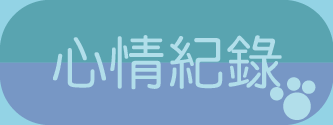
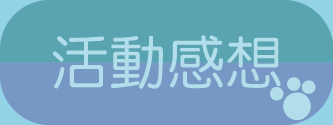
no message

Changed region(s): [[0.1502, 0.288, 0.8408, 0.72], [0.2402, 0.696, 0.2703, 0.72]]

diff --git a/menu.html b/menu.html
@@ -6,11 +6,11 @@
 </head>
 
 <body>
-<p><a href="./index.html" target="_top">日曆</a></p>
-<p><a href="./now_mood.html" target="_top"><img src="img/activities_feelings.png" width="80px" height="30px" / ></a></p>
-<p><a href="./activities_feelings.html" target="_top">活動感想</a></p>
-<p><a href="./insert.html" target="_top">填寫日記</a></p>
-<p><a href="./help.html" target="_top">Help</a></p>
-<p><a href="./steup.html" target="_top">設定</a></p>
+<p><a href="./index.html" target="_top"><img src="img/index.png" width="80px" height="30px" / ></a></p>
+<p><a href="./now_mood.html" target="_top"><img src="img/now_mood.png" width="80px" height="30px" / ></a></p>
+<p><a href="./activities_feelings.html" target="_top"><img src="img/activities_feelings.png" width="80px" height="30px" / ></a></p>
+<p><a href="./insert.html" target="_top"><img src="img/insert.png" width="80px" height="30px" / ></a></p>
+<p><a href="./help.html" target="_top"><img src="img/help.png" width="80px" height="30px" / ></a></p>
+<p><a href="./steup.html" target="_top"><img src="img/steup.png" width="80px" height="30px" / ></a></p>
 </body>
 </html>

diff --git a/menu2.html b/menu2.html
@@ -6,11 +6,11 @@
 </head>
 
 <body>
-<p><a href="./index2.html" target="_top">日曆</a></p>
-<p><a href="./now_mood.html" target="_top"><img src="img/activities_feelings.png" width="80px" height="30px" /></a></p>
-<p><a href="./activities_feelings.html" target="_top">活動感想</a></p>
-<p><a href="./insert.html" target="_top">填寫日記</a></p>
-<p><a href="./help.html" target="_top">Help</a></p>
-<p><a href="./steup.html" target="_top">設定</a></p>
+<p><a href="./index.html" target="_top"><img src="img/index.png" width="80px" height="30px" / ></a></p>
+<p><a href="./now_mood.html" target="_top"><img src="img/now_mood.png" width="80px" height="30px" / ></a></p>
+<p><a href="./activities_feelings.html" target="_top"><img src="img/activities_feelings.png" width="80px" height="30px" / ></a></p>
+<p><a href="./insert.html" target="_top"><img src="img/insert.png" width="80px" height="30px" / ></a></p>
+<p><a href="./help.html" target="_top"><img src="img/help.png" width="80px" height="30px" / ></a></p>
+<p><a href="./steup.html" target="_top"><img src="img/steup.png" width="80px" height="30px" / ></a></p>
 </body>
 </html>
